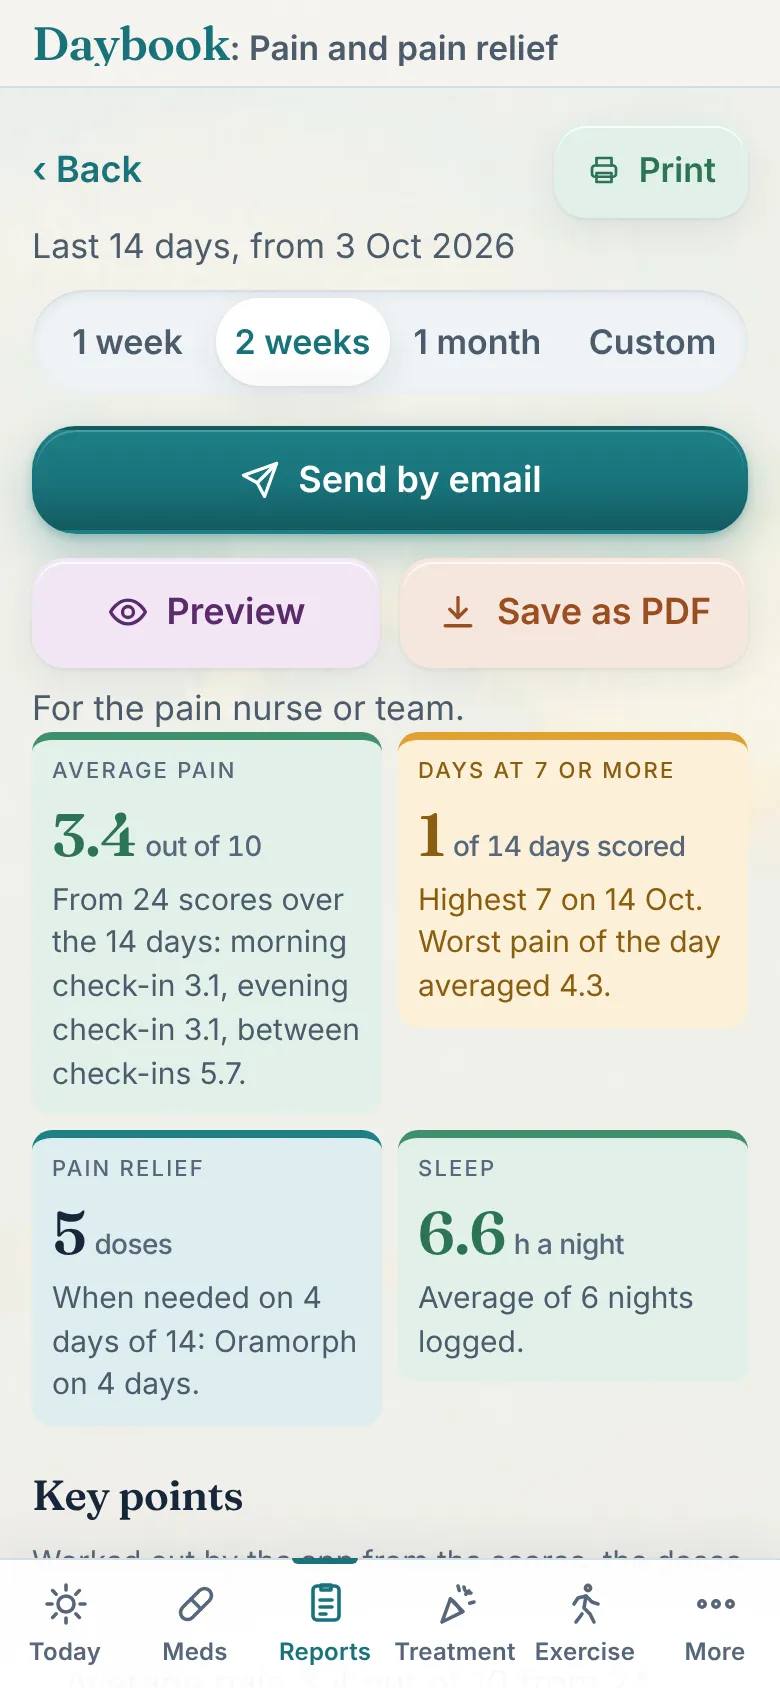
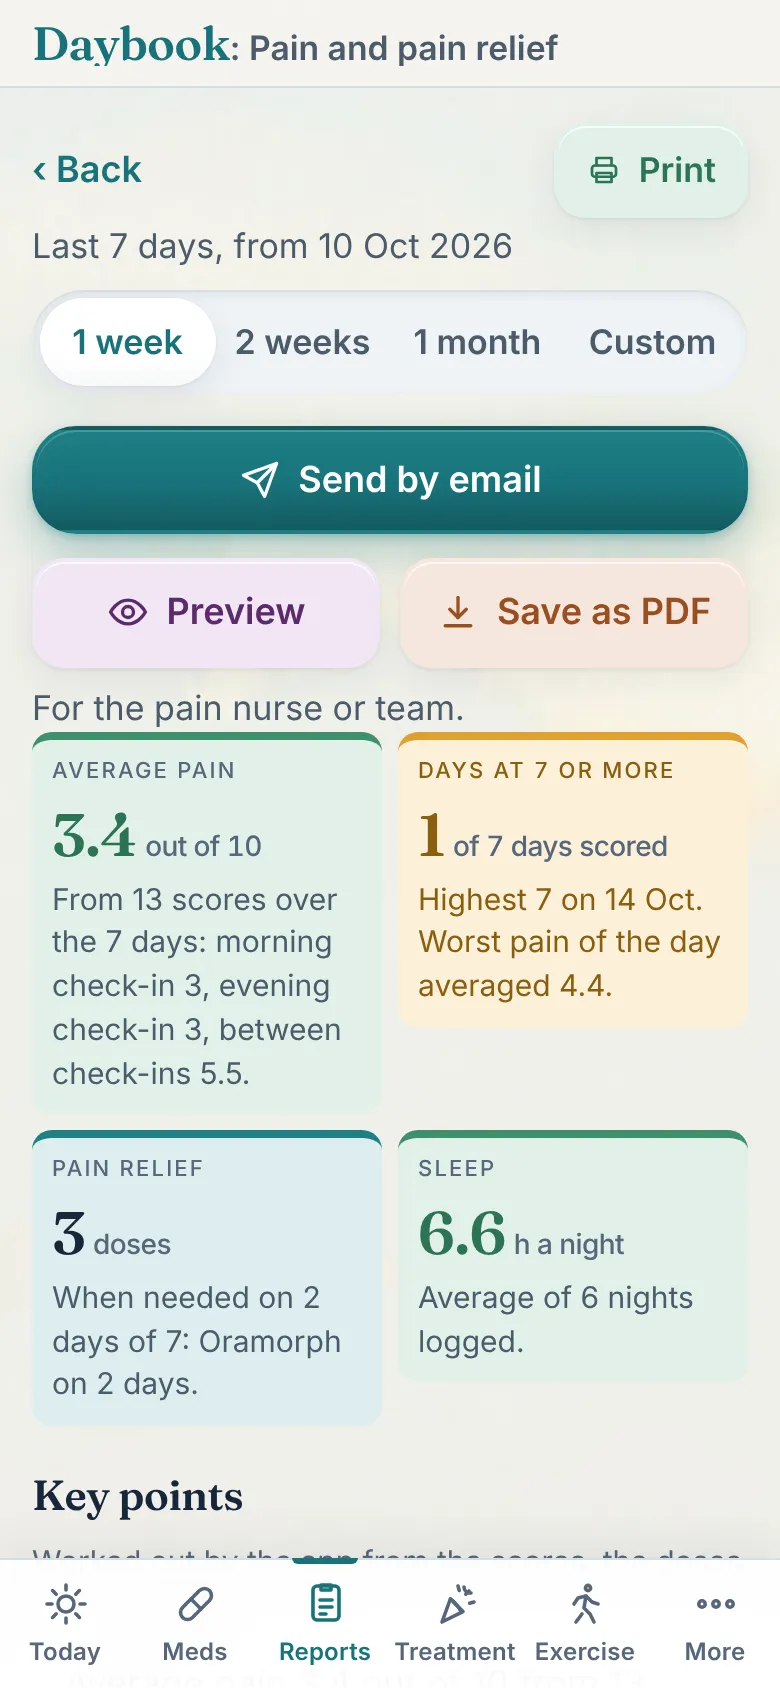
v304: every report opens on 1 week
Claude-Session: https://claude.ai/code/session_019VY17MM1Pv81B6vJUTKu9b

diff --git a/index.html b/index.html
@@ -17,7 +17,7 @@
   <link rel="preconnect" href="https://fonts.googleapis.com">
   <link rel="preconnect" href="https://fonts.gstatic.com" crossorigin>
   <link href="https://fonts.googleapis.com/css2?family=Fraunces:opsz,wght@9..144,500;9..144,600;9..144,700&family=Inter:wght@400;500;600;700&display=swap" rel="stylesheet">
-  <link rel="stylesheet" href="styles.css?v=303">
+  <link rel="stylesheet" href="styles.css?v=304">
 </head>
 <body>
   <a class="skip-link" href="#main">Skip to content</a>
@@ -607,8 +607,8 @@
         </div>
         <p id="food-sub" class="muted"></p>
         <div class="segmented" role="group" aria-label="Range">
-          <button class="seg" type="button" data-range="7">1 week</button>
-          <button class="seg is-active" type="button" data-range="14">2 weeks</button>
+          <button class="seg is-active" type="button" data-range="7">1 week</button>
+          <button class="seg" type="button" data-range="14">2 weeks</button>
           <button class="seg" type="button" data-range="30">1 month</button>
           <button class="seg" type="button" data-range="custom">Custom</button>
         </div>
@@ -648,9 +648,9 @@
         </div>
         <p id="mood-sub" class="muted"></p>
         <div class="segmented" role="group" aria-label="Range">
-          <button class="seg" type="button" data-range="7">1 week</button>
+          <button class="seg is-active" type="button" data-range="7">1 week</button>
           <button class="seg" type="button" data-range="14">2 weeks</button>
-          <button class="seg is-active" type="button" data-range="30">1 month</button>
+          <button class="seg" type="button" data-range="30">1 month</button>
           <button class="seg" type="button" data-range="custom">Custom</button>
         </div>
         <div id="mood-custom" class="field-row custom-range" hidden>
@@ -694,8 +694,8 @@
         </div>
         <p id="pain-sub" class="muted"></p>
         <div class="segmented" role="group" aria-label="Range">
-          <button class="seg" type="button" data-range="7">1 week</button>
-          <button class="seg is-active" type="button" data-range="14">2 weeks</button>
+          <button class="seg is-active" type="button" data-range="7">1 week</button>
+          <button class="seg" type="button" data-range="14">2 weeks</button>
           <button class="seg" type="button" data-range="30">1 month</button>
           <button class="seg" type="button" data-range="custom">Custom</button>
         </div>
@@ -747,9 +747,9 @@
         </div>
         <p id="ibd-sub" class="muted"></p>
         <div class="segmented" role="group" aria-label="Range">
-          <button class="seg" type="button" data-range="7">1 week</button>
+          <button class="seg is-active" type="button" data-range="7">1 week</button>
           <button class="seg" type="button" data-range="14">2 weeks</button>
-          <button class="seg is-active" type="button" data-range="30">1 month</button>
+          <button class="seg" type="button" data-range="30">1 month</button>
           <button class="seg" type="button" data-range="custom">Custom</button>
         </div>
         <div id="ibd-custom" class="field-row custom-range" hidden>
@@ -1214,6 +1214,6 @@
   </div>
 
   <script src="config.js"></script>
-  <script type="module" src="scripts.js?v=303"></script>
+  <script type="module" src="scripts.js?v=304"></script>
 </body>
 </html>

diff --git a/scripts.js b/scripts.js
@@ -13,7 +13,7 @@ import {
   query, where, orderBy, limit, onSnapshot, serverTimestamp, Timestamp, writeBatch, deleteField, runTransaction
 } from 'https://www.gstatic.com/firebasejs/10.12.2/firebase-firestore.js';
 
-const APP_VERSION = '303';
+const APP_VERSION = '304';
 /* The stage of the app (v132): 'Beta' until it is on the App Store and Google Play, then ''. Shown as a small pill on the
    opener and the four cover screens (never in the topbar, where it squeezed "Daybook: Treatment plan" off the end at 390px),
    after the version everywhere the version shows, and as one line on the App card and About
@@ -862,11 +862,11 @@ const state = {
   unsub: {},
   charts: {},
   trendRange: 7,
-  foodRange: 14,
+  foodRange: 7,
   notesRange: 7,
-  moodRange: 30,
-  painRange: 14, // two weeks by default (Mark, 22 October 2026)
-  ibdRange: 30,
+  moodRange: 7,
+  painRange: 7, // every report opens on 1 week (Mark, 24 October 2026)
+  ibdRange: 7,
   foodRangeMode: 'preset',
   notesRangeMode: 'preset',
   foodCustomFrom: null,

diff --git a/CLAUDE.md b/CLAUDE.md
@@ -27,7 +27,7 @@ When Mark asks for a change that could be read more than one way, or that would 
 `LICENSE` (since v68): **copyright Mark 1 Apps Ltd** since v151 (company number 17510025, registered in England and Wales, 9 October 2026; Shelley and Mark directors). Mark Brown created Daybook and assigned the code, the names, the artwork, the domains and the Mark 1 Apps name and mark to the company by a Deed of Assignment dated 10 October 2026, signed by Mark, by Shelley for the company and before an independent witness, after a written resolution of both shareholders approving it; the originals are kept with the company papers, never in the repo. The LICENSE, README, the terms' copyright paragraph (dated 10 October 2026), About's licence line, the opener and the Settings card all read "Copyright 2026 Mark 1 Apps Ltd"; About still says Daybook was made by Mark Brown, which the deed allows (clause 4). The code is published to be read (the repository has to be public for GitHub Pages, and a web app hands its code to every browser anyway), not copied, hosted or built on; the name, strapline, artwork and the Mark 1 Apps mark are reserved too. Third-party parts keep their own licences (CoFID under the Open Government Licence, the CDN libraries and the fonts under theirs). The notice also appears on the Settings App card, in `README.md` and in the pitch footer. Copyright is automatic; the file removes the "I assumed it was open source" excuse. The LICENSE names "My Medical Daybook (Daybook)". A trade mark application for the full name is a roadmap item for when the app goes to the stores; a descriptive phrase like this is hard to register and hard for anyone else to register, which is part of why it was chosen.
 
 ## Four report ranges: 1 week, 2 weeks, 1 month, Custom (v303, 24 October 2026)
-Mark, on the Mood report's range row: "These are bonkers timings we only need 1 and 2 maybe last month and then custom." Every report's range row (Notes for the team, Food diary, Mood and wellbeing, Pain and pain relief, Crohn's and colitis) is now **1 week** (7), **2 weeks** (14), **1 month** (the last 30 days) and **Custom**; 4 weeks, 8 weeks and 90 days went. Defaults: Notes 1 week, Food and Pain 2 weeks, Mood and Crohn's 1 month (`state.moodRange` and `ibdRange` 30, were 28). Notes for the team's masthead reads "Month to ..." for 30 days. Custom still allows up to 180 days. The Trends charts' own row (1 week, 2 weeks, 30 days) is not a report and is unchanged. The Guide was retaken (the report frames show the new row) and copied to the website. Tested in the scratchpad's `h/t29.cjs` (the four buttons and defaults on all five reports, 1 month giving 30 days, Custom's box, 44px, no sideways scroll, 390 light and 320 dark, no page errors) and `h/t29b.cjs` (Pain, Mood, Food and Crohn's previews at 1 week and 1 month, nothing failing to fit).
+Mark, on the Mood report's range row: "These are bonkers timings we only need 1 and 2 maybe last month and then custom." Every report's range row (Notes for the team, Food diary, Mood and wellbeing, Pain and pain relief, Crohn's and colitis) is now **1 week** (7), **2 weeks** (14), **1 month** (the last 30 days) and **Custom**; 4 weeks, 8 weeks and 90 days went. **v304 (Mark: "default the lowest"): every report opens on 1 week** (`state.foodRange`, `notesRange`, `moodRange`, `painRange`, `ibdRange` all 7, the 1 week button pressed in each). Notes for the team's masthead reads "Month to ..." for 30 days. Custom still allows up to 180 days. The Trends charts' own row (1 week, 2 weeks, 30 days) is not a report and is unchanged. The Guide was retaken (the report frames show the new row) and copied to the website. Tested in the scratchpad's `h/t29.cjs` (the four buttons and defaults on all five reports, 1 month giving 30 days, Custom's box, 44px, no sideways scroll, 390 light and 320 dark, no page errors) and `h/t29b.cjs` (Pain, Mood, Food and Crohn's previews at 1 week and 1 month, nothing failing to fit).
 
 ## Foods read as meant: flavours, brands, products with no figures (v302, 23 October 2026)
 Mark, after v301: what else could go wrong with food, since it matters most for Crohn's users. A check in the preview found real faults, and a search found no published fix (Open Food Facts' own data-quality pages say serving sizes are free text and often missing; app reviews favour no match over a wrong one). Mark: "give your answers a go", feedback to follow.
